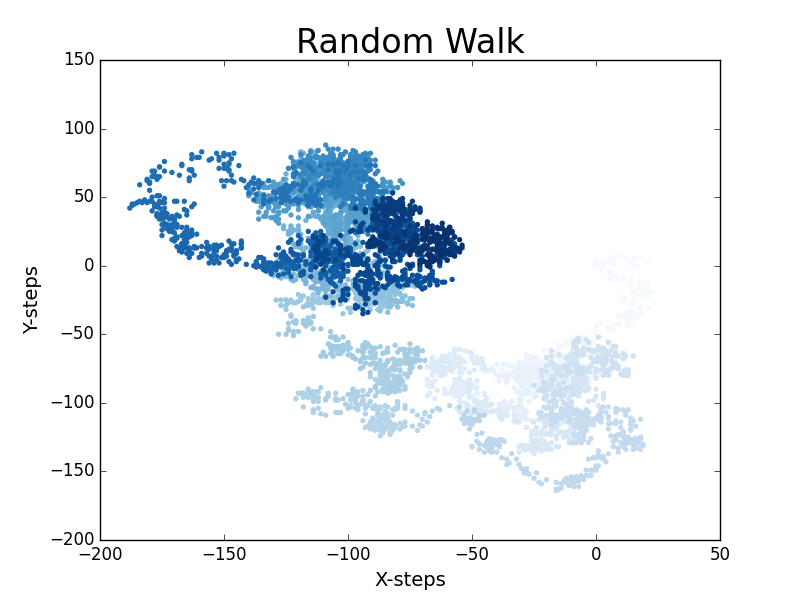
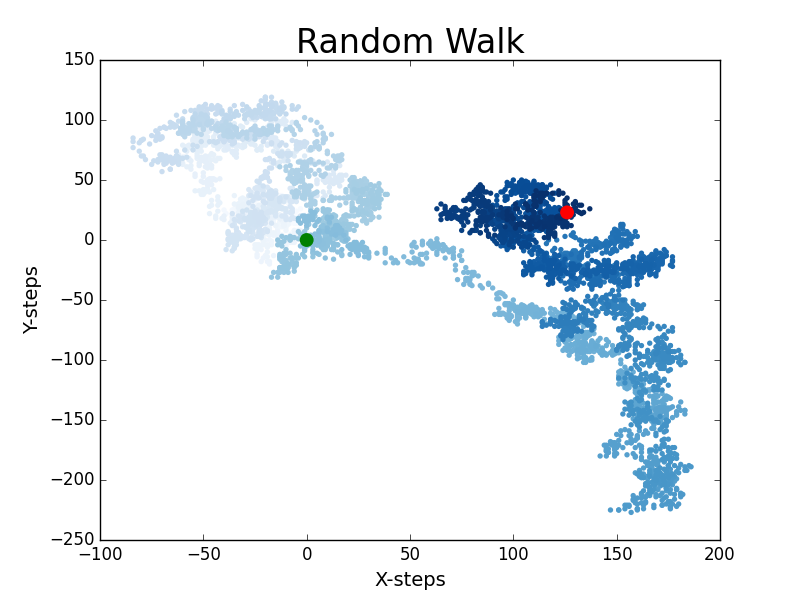
Data Visualization

diff --git a/randomWalk_visual.py b/randomWalk_visual.py
@@ -10,10 +10,15 @@ while True:
     fig, ax = plt.subplots()
     point_numbers = range(rw.num_points)
     ax.scatter(rw.x_values, rw.y_values, c = point_numbers, cmap = plt.cm.Blues, edgecolors = "none", s = 15)
+    #Emphasis the first and last point
+    ax.scatter(0, 0, c = "green", edgecolors = "none", s = 100)
+    ax.scatter(rw.x_values[-1], rw.y_values[-1], c= "red", edgecolors = "none", s = 100)
+    
+    
     ax.set_title("Random Walk", fontsize = 24)
     ax.set_xlabel("X-steps", fontsize = 14)
     ax.set_ylabel("Y-steps", fontsize = 14)
-   
+
     plt.savefig("random_walk.png")
     
     keep_walking = input("Do you want to take another walk? y/n: ")
